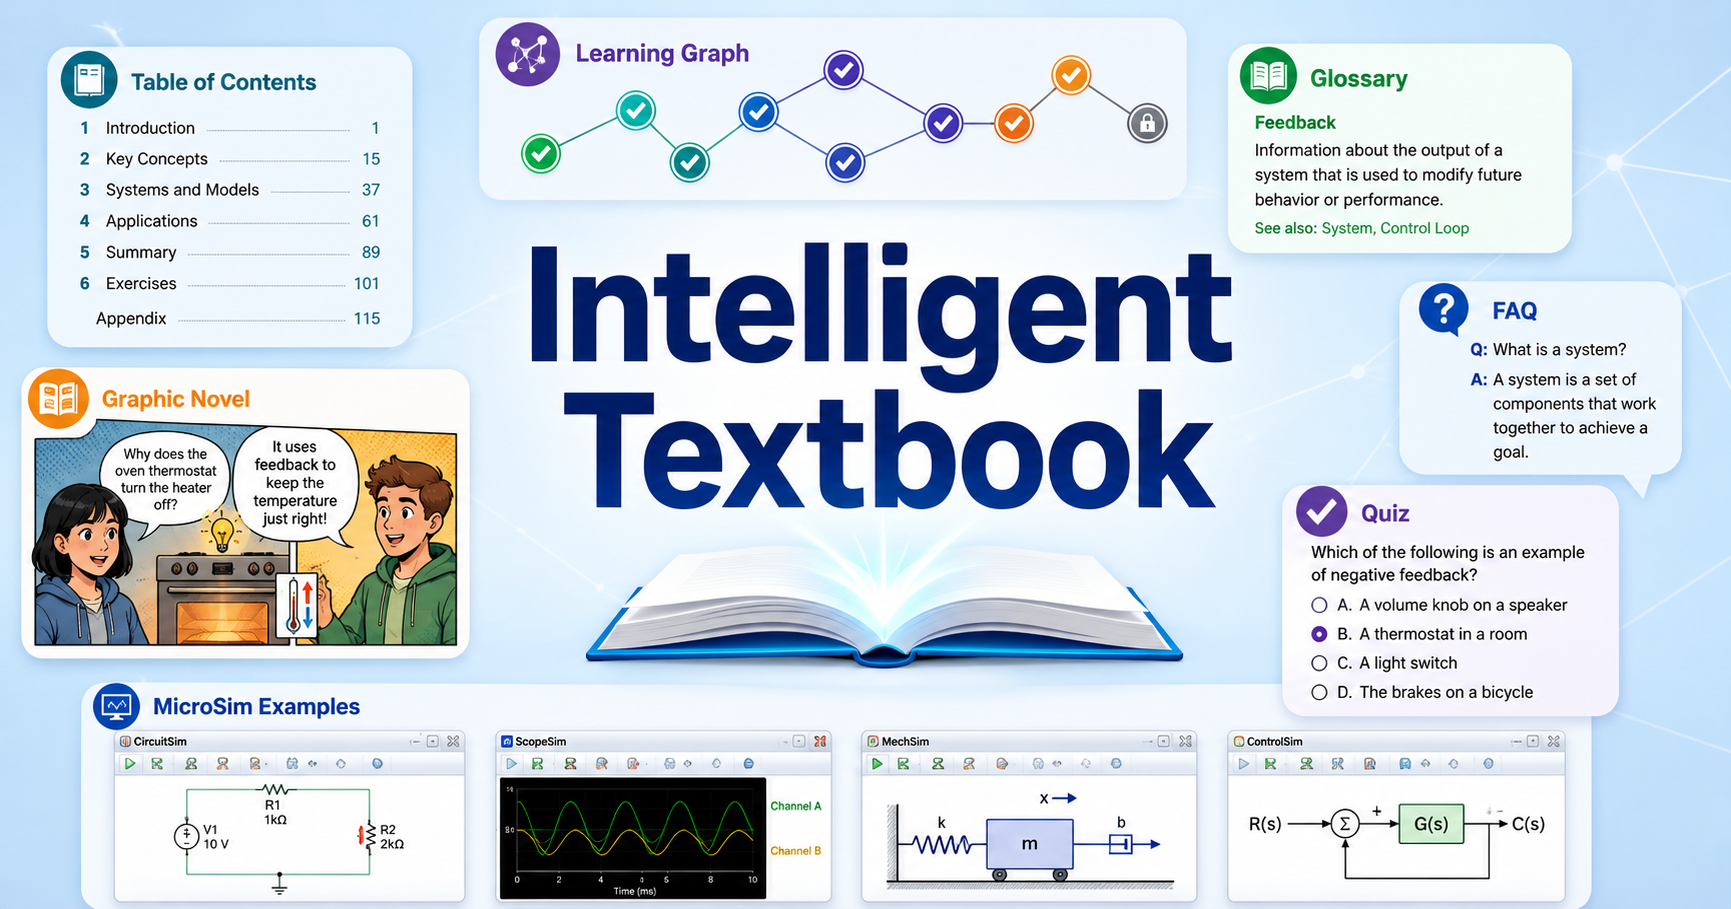
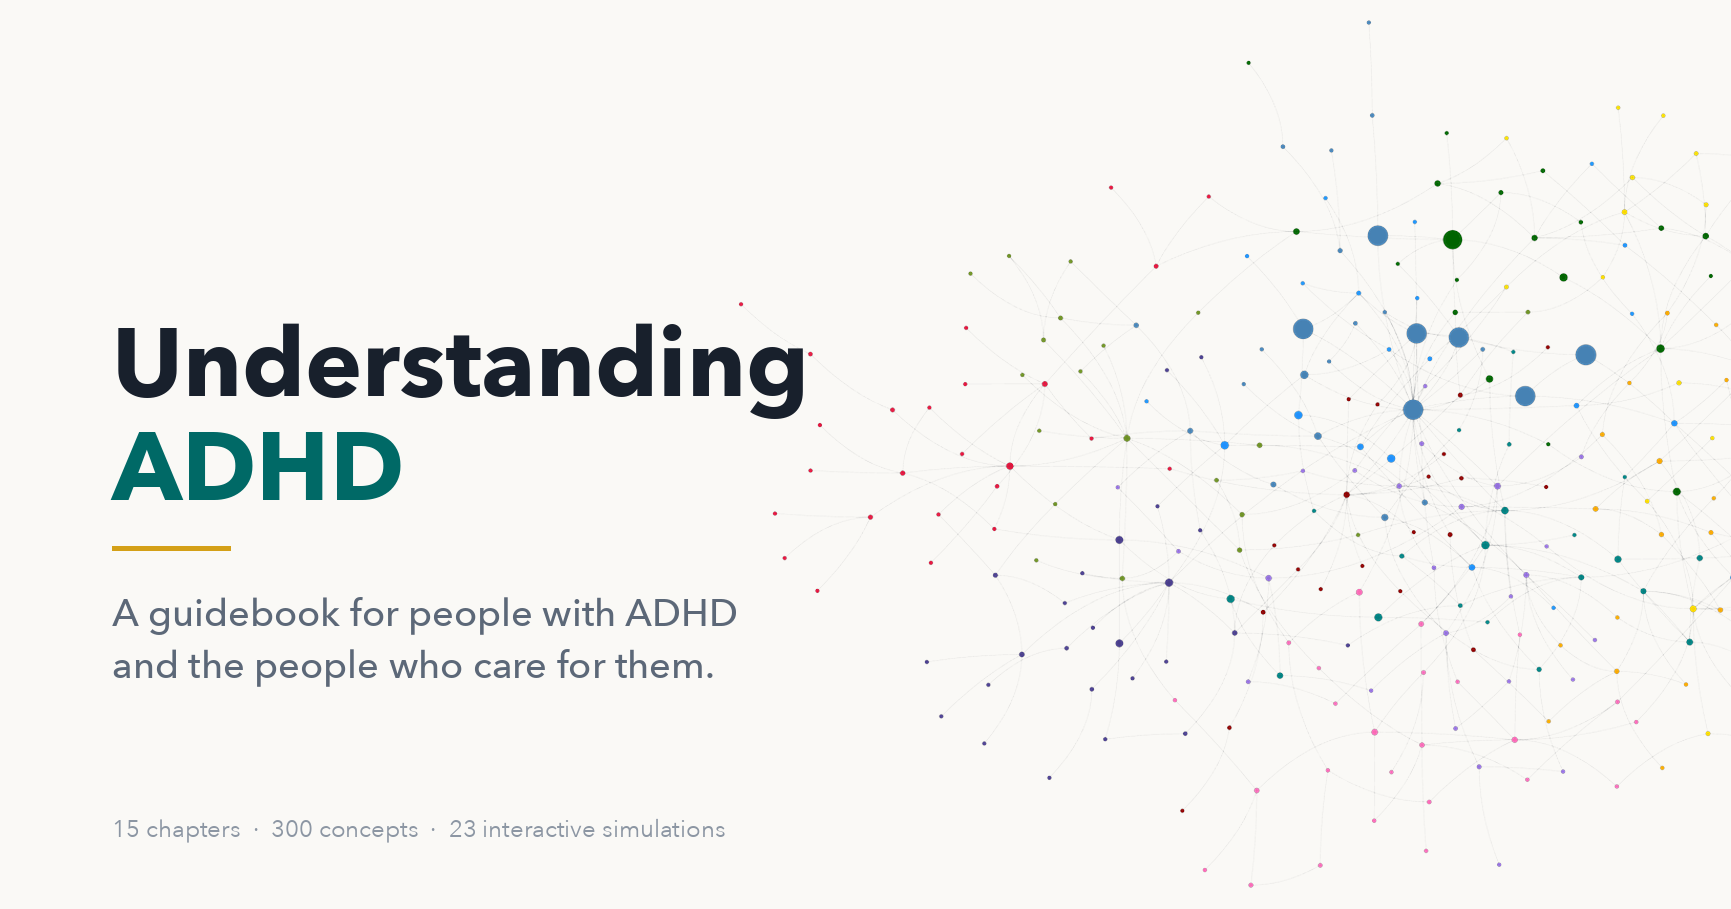
Replace scaffold cover with one built from the book's own learning graph
The old cover was the generic template image — circuit diagrams and the
words 'Intelligent Textbook' on a book about ADHD — and it was serving as
the og:image for every social share.

New cover renders all 300 concepts coloured by taxonomy and sized by
Concept Impact Score, so the art carries the real structure of the book.
Reproducible via scripts/generate-cover.py.

diff --git a/scripts/cover-graph-render.html b/scripts/cover-graph-render.html
@@ -1,0 +1,30 @@
+<!DOCTYPE html><html><head><meta charset="utf-8">
+<script src="https://unpkg.com/vis-network/standalone/umd/vis-network.min.js"></script>
+<style>
+ html,body{margin:0;padding:0;background:transparent;}
+ #net{width:1731px;height:909px;background:transparent;}
+</style></head><body>
+<div id="net"></div>
+<script>
+fetch('graph.json').then(r=>r.json()).then(g=>{
+  const groups={};
+  for(const [k,v] of Object.entries(g.groups)) groups[k]={color:{background:v.color,border:v.color},borderWidth:0};
+  const nodes=g.nodes.map(n=>{
+    const c=Math.log((n.cis||1)+1);
+    return {id:n.id, group:n.group, shape:'dot',
+            size: 5 + 9*Math.min(1,c/Math.log(1870)) + (n.cis>200?14:0),
+            color:{background:(g.groups[n.group]||{}).color||'#888',
+                   border:(g.groups[n.group]||{}).color||'#888'},
+            borderWidth:0};
+  });
+  const edges=g.edges.map(e=>({from:e.from,to:e.to,
+      color:{color:'rgba(96,110,130,0.62)'},width:1.0,smooth:{type:'continuous'}}));
+  const net=new vis.Network(document.getElementById('net'),
+    {nodes:new vis.DataSet(nodes),edges:new vis.DataSet(edges)},
+    {groups, interaction:{dragNodes:false},
+     physics:{stabilization:{iterations:900},barnesHut:{gravitationalConstant:-9000,springLength:130,springConstant:0.035,avoidOverlap:0.35}},
+     nodes:{shadow:{enabled:true,size:8,x:0,y:2,color:'rgba(0,0,0,0.18)'}},
+     edges:{arrows:{to:{enabled:false}}}});
+  net.on('stabilizationIterationsDone',()=>{net.setOptions({physics:false});net.fit({animation:false});window.__ready=true;});
+});
+</script></body></html>

diff --git a/scripts/generate-cover.py b/scripts/generate-cover.py
@@ -1,0 +1,75 @@
+#!/usr/bin/env python3
+"""Regenerate docs/img/cover.png.
+
+The cover art is the book's own learning graph: 300 concepts coloured by
+taxonomy, sized by Concept Impact Score, laid out by vis-network's physics
+engine. Utilitarian and beautiful - it carries the real structure of the book.
+
+Requires: playwright (pip install playwright), Pillow, and Google Chrome.
+Run from the repo root:  python3 scripts/generate-cover.py
+"""
+import http.server, os, socketserver, threading, shutil, tempfile, functools
+from PIL import Image, ImageDraw, ImageFont
+from playwright.sync_api import sync_playwright
+
+ROOT = os.path.dirname(os.path.dirname(os.path.abspath(__file__)))
+CHROME = "/Applications/Google Chrome.app/Contents/MacOS/Google Chrome"
+FONT = "/System/Library/Fonts/Avenir Next.ttc"
+W, H, BG, PORT = 1731, 909, (250, 249, 246), 8127
+
+work = tempfile.mkdtemp()
+shutil.copy(f"{ROOT}/scripts/cover-graph-render.html", f"{work}/graphcover.html")
+shutil.copy(f"{ROOT}/docs/learning-graph/learning-graph.json", f"{work}/graph.json")
+
+handler = functools.partial(http.server.SimpleHTTPRequestHandler, directory=work)
+srv = socketserver.TCPServer(("127.0.0.1", PORT), handler)
+threading.Thread(target=srv.serve_forever, daemon=True).start()
+
+try:
+    with sync_playwright() as p:
+        b = p.chromium.launch(executable_path=CHROME)
+        pg = b.new_page(viewport={"width": W, "height": H},
+                        device_scale_factor=2, color_scheme="light")
+        pg.goto(f"http://127.0.0.1:{PORT}/graphcover.html")
+        pg.wait_for_function("window.__ready===true", timeout=120000)
+        pg.wait_for_timeout(1200)
+        pg.screenshot(path=f"{work}/art.png", omit_background=True,
+                      clip={"x": 0, "y": 0, "width": W, "height": H})
+        b.close()
+finally:
+    srv.shutdown()
+
+def font(size, index):
+    return ImageFont.truetype(FONT, size, index=index)   # 0=Bold 5=Medium 7=Regular
+
+art = Image.open(f"{work}/art.png").convert("RGBA").resize((W, H), Image.LANCZOS)
+big = art.resize((int(W * 1.05), int(H * 1.05)), Image.LANCZOS)
+layer = Image.new("RGBA", (W, H), (0, 0, 0, 0))
+layer.paste(big, (int(W * .28) - (big.width - W) // 2, -(big.height - H) // 2), big)
+
+# fade the art out under the title block so the type stays clean
+px = layer.load()
+for x in range(int(W * .46)):
+    a = max(0.0, min(1.0, (x - W * .12) / (W * .34)))
+    a = a * a * (3 - 2 * a)                      # smoothstep
+    for y in range(H):
+        r, g, bl, al = px[x, y]
+        if al:
+            px[x, y] = (r, g, bl, int(al * a))
+
+cover = Image.alpha_composite(Image.new("RGBA", (W, H), BG + (255,)), layer).convert("RGB")
+d = ImageDraw.Draw(cover)
+x0 = 112
+d.text((x0, 300), "Understanding", font=font(96, 0), fill=(24, 32, 44))
+d.text((x0, 404), "ADHD",          font=font(96, 0), fill=(0, 105, 102))
+d.line([(x0, 548), (x0 + 118, 548)], fill=(212, 160, 23), width=5)
+y = 588
+for line in ["A guidebook for people with ADHD", "and the people who care for them."]:
+    d.text((x0, y), line, font=font(38, 5), fill=(92, 104, 120))
+    y += 52
+d.text((x0, H - 96), "15 chapters  ·  300 concepts  ·  23 interactive simulations",
+       font=font(24, 7), fill=(140, 150, 163))
+
+out = f"{ROOT}/docs/img/cover.png"
+cover.save(out)
+print(f"wrote {out}  {cover.size}  {os.path.getsize(out)//1024}KB")
